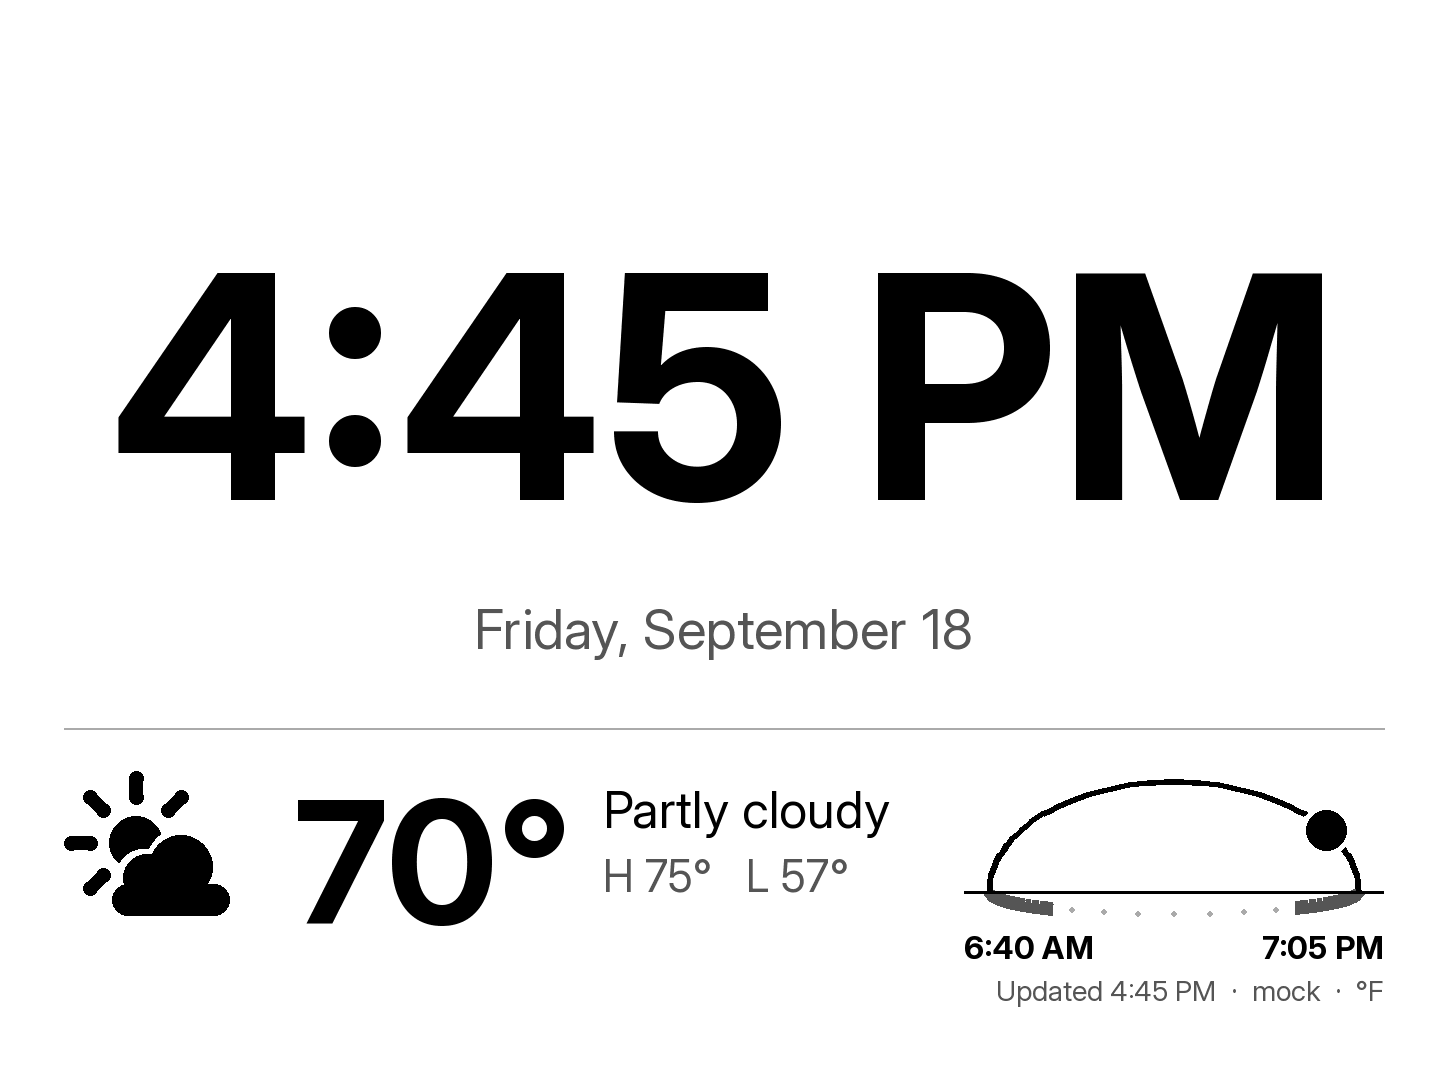
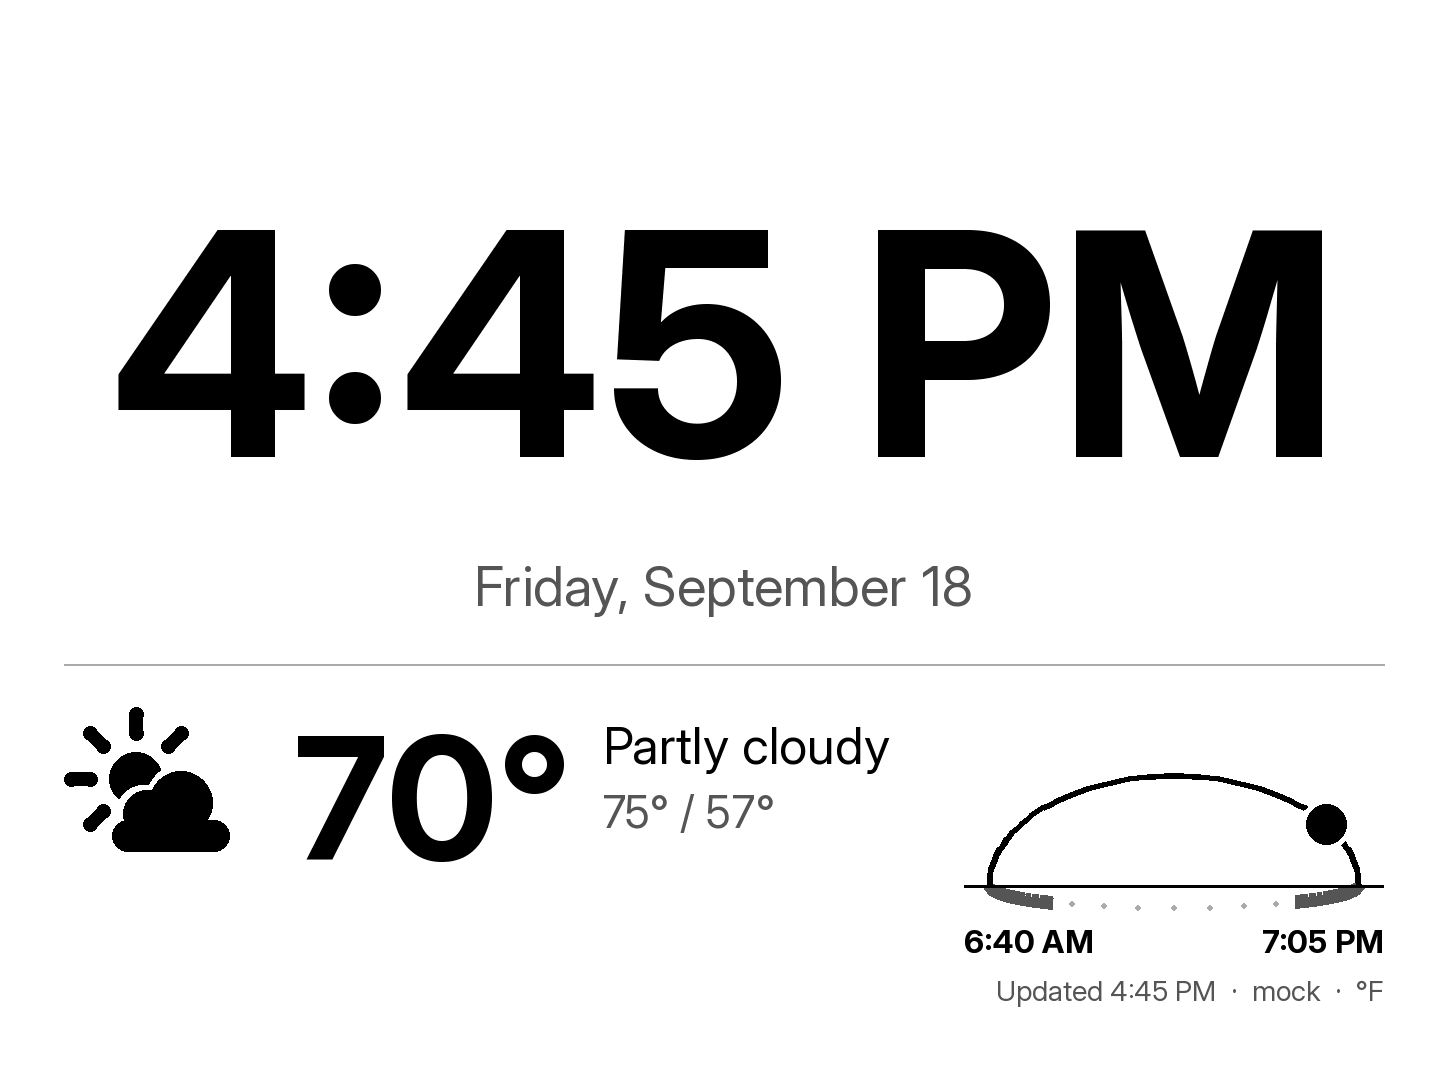
feat(skins): layout pass over weather-station, big-clock, and newspaper
weather-station: the metrics as glyph cells (Canvas.metrics_strip) instead
of the label grid, the duplicated "Feels like" line under the temperature
removed, which also uncrowds the arc in landscape. big-clock: the clock
sits higher, the weather strip and the arc take the space below, the
range reads "75° / 57°". newspaper: the "days ahead" icons grow into the
space left in portrait, and each day's range and condition get their own
lines so the columns share one type size. Goldens and README frames for
the three skins regenerated on purpose.

diff --git a/src/paperwhite_weather/skins/weather_station.py b/src/paperwhite_weather/skins/weather_station.py
@@ -16,7 +16,7 @@ _FORECAST_DAYS = 4
 
 
 class WeatherStationSkin:
-    """Clock, current conditions, a metrics grid, the sun arc, and the forecast."""
+    """Clock, current conditions, the metrics as glyphs, the sun arc, and the forecast."""
 
     name: ClassVar[str] = "weather-station"
 
@@ -48,15 +48,15 @@ class WeatherStationSkin:
             right_x = m + left_w + gutter
             right_w = c.width - m - right_x
             self._current(c, m, y, left_w)
-            gy = self._grid(c, right_x, y, right_w)
-            ay = c.sun_arc((m, self._current_height(c, y), m + left_w, y + c.px(420)))
+            gy = c.metrics_strip((right_x, y + c.px(10), right_x + right_w, y + c.px(200)))
+            ay = c.sun_arc((m, self._current_height(c, y), m + left_w, y + c.px(430)))
             y2 = max(ay, gy) + c.px(30)
             y2 = c.rule(m, y2, w, LIGHT_GRAY, 2) + c.px(16)
             self._forecast(c, m, y2, w)
         else:
             self._current(c, m, y, w)
             y = self._current_height(c, y) + c.px(20)
-            y = self._grid(c, m, y, w) + c.px(30)
+            y = c.metrics_strip((m, y, c.width - m, y + c.px(200))) + c.px(30)
             y = c.sun_arc((m, y, c.width - m, y + c.px(270))) + c.px(30)
             y = c.rule(m, y, w, LIGHT_GRAY, 2) + c.px(16)
             self._forecast(c, m, y, w)
@@ -81,32 +81,9 @@ class WeatherStationSkin:
             anchor="la",
             max_width=width - icon - c.px(30),
         )
-        c.text(
-            (tx, y + c.px(205)),
-            c.feels_like_text(),
-            "regular",
-            40,
-            fill=DARK_GRAY,
-            anchor="la",
-            max_width=width - icon - c.px(30),
-        )
 
     def _current_height(self, c: Canvas, y: int) -> int:
-        return y + c.px(260)
-
-    def _grid(self, c: Canvas, x: int, y: int, width: int) -> int:
-        """Two columns of label/value cells with the optional metrics. Returns the bottom y."""
-        cells = c.metrics()
-        columns = 2
-        cell_w = width / columns
-        cell_h = c.px(96)
-        for k, (label, value) in enumerate(cells):
-            cx = x + cell_w * (k % columns)
-            cy = y + cell_h * (k // columns)
-            c.text((cx, cy), label, "regular", 30, fill=DARK_GRAY, anchor="la")
-            c.text((cx, cy + c.px(34)), value, "bold", 46, anchor="la", max_width=cell_w * 0.95)
-        rows = (len(cells) + columns - 1) // columns
-        return round(y + cell_h * rows)
+        return y + c.px(215)
 
     def _forecast(self, c: Canvas, x: int, y: int, width: int) -> None:
         """Today and the next days as temperature bars on one scale, down to the footer."""

diff --git a/src/paperwhite_weather/skins/newspaper.py b/src/paperwhite_weather/skins/newspaper.py
@@ -49,7 +49,7 @@ class NewspaperSkin:
         # Lead story: text column on the left, the icon on the right.
         current = snapshot.current
         today = snapshot.today
-        icon = c.px(280 if c.landscape else 240)
+        icon = c.px(280 if c.landscape else 200)
         text_w = w - icon - c.px(40)
         lead_top = y
         headline = f"{c.condition_label(current.condition)}, {c.temperature(current.temperature)}"
@@ -91,19 +91,28 @@ class NewspaperSkin:
         days = snapshot.daily[1 : _FORECAST_DAYS + 1]
         if days:
             available = c.height - m - c.px(50) - y  # leave room for the footer
-            small = max(c.px(60), min(c.px(120), available - c.px(110)))
+            small = max(c.px(60), min(c.px(230), available - c.px(130)))
             column = w / len(days)
             for k, day in enumerate(days):
                 x = m + column * k
                 c.text(
-                    (x, y), f"{day.date:%A}", "serif-bold", 34, anchor="la", max_width=column * 0.95
+                    (x, y), f"{day.date:%A}", "serif-bold", 36, anchor="la", max_width=column * 0.95
                 )
-                c.icon(day.condition, (x, y + c.px(46), x + small, y + c.px(46) + small))
+                c.icon(day.condition, (x, y + c.px(50), x + small, y + c.px(50) + small))
+                line_y = y + c.px(50) + small + c.px(14)
                 c.text(
-                    (x, y + c.px(46) + small + c.px(10)),
-                    f"{c.range_text(day)}  {c.condition_label(day.condition)}",
+                    (x, line_y),
+                    c.range_text(day),
                     "serif",
-                    30,
+                    34,
+                    anchor="la",
+                    max_width=column * 0.95,
+                )
+                c.text(
+                    (x, line_y + c.px(46)),
+                    c.condition_label(day.condition),
+                    "serif",
+                    32,
                     anchor="la",
                     max_width=column * 0.95,
                 )

diff --git a/src/paperwhite_weather/skins/big_clock.py b/src/paperwhite_weather/skins/big_clock.py
@@ -29,7 +29,7 @@ class BigClockSkin:
         # Clock, as large as the width allows, vertically in the upper part.
         clock = c.clock()
         clock_size = 520 if c.landscape else 360
-        clock_y = c.height * (0.36 if c.landscape else 0.30)
+        clock_y = c.height * (0.32 if c.landscape else 0.25)
         used = c.text((c.width / 2, clock_y), clock, "bold", clock_size, anchor="mm", max_width=w)
         c.text(
             (c.width / 2, clock_y + used * 0.78),
@@ -43,7 +43,7 @@ class BigClockSkin:
 
         # Weather strip: icon, temperature, condition, range; the sun arc beside it in
         # landscape, under it in portrait.
-        strip_top = c.height * (0.68 if c.landscape else 0.58)
+        strip_top = c.height * (0.62 if c.landscape else 0.50)
         c.rule(m, strip_top, w, LIGHT_GRAY, 2)
         icon_size = c.px(190)
         icon_top = strip_top + c.px(40)
@@ -68,18 +68,19 @@ class BigClockSkin:
         )
         c.text(
             (x2, icon_top + c.px(80)),
-            c.high_low(today),
+            c.range_text(today),
             "regular",
             44,
             fill=DARK_GRAY,
             anchor="la",
             max_width=text_right - x2,
         )
+        arc_bottom = c.height - m - c.px(50)
         if c.landscape:
             arc_left = c.width - m - c.px(420)
-            c.sun_arc((arc_left, strip_top + c.px(20), c.width - m, strip_top + c.px(235)))
+            c.sun_arc((arc_left, strip_top + c.px(10), c.width - m, arc_bottom))
         else:
-            arc_top = icon_top + max(icon_size, temp_size) + c.px(24)
-            c.sun_arc((m, arc_top, c.width - m, arc_top + c.px(210)))
+            arc_top = icon_top + max(icon_size, temp_size) + c.px(40)
+            c.sun_arc((m, arc_top, c.width - m, arc_bottom))
         c.footer()
         return c.image

diff --git a/CHANGELOG.md b/CHANGELOG.md
@@ -35,6 +35,12 @@ Format: [Keep a Changelog](https://keepachangelog.com/en/1.1.0/); versioning: [S
   a rain drop per day, today's temperature as a hollow ring). Shared pieces on the
   canvas: `band_chart()`, `metrics_strip()`, `number()`; glyphs `icons.draw_wind` and
   `icons.draw_thermometer`.
+- Layout pass over three skins: `weather-station` shows the metrics as glyph cells
+  (`Canvas.metrics_strip`) instead of a label grid and no longer repeats "Feels like"
+  under the temperature, which also uncrowds the arc in landscape; `big-clock` sits the
+  clock higher, gives the weather strip and the arc the space below, and writes the
+  range as "75° / 57°"; `newspaper` grows the "days ahead" icons to the space left in
+  portrait and puts each day's range and condition on their own lines.
 - Four more skins, each with portrait and landscape layouts: `newspaper` (serif front
   page), `weather-station` (metrics grid), `big-clock`, and `forecast`. Shared drawing
   helpers in `skins/common.py`; DejaVu Serif bundled alongside DejaVu Sans.

diff --git a/docs/ROADMAP.md b/docs/ROADMAP.md
@@ -135,7 +135,8 @@ The first versions read well; the direction is **fewer words, more pictures**.
       scale (photo of the device), unify stroke weights, and consider distinct glyphs
       for showers versus steady rain and for night (clear night, partly cloudy night)
       once the model knows whether it is night.
-- [ ] Portrait layouts leave empty space at the bottom (`newspaper`, `weather-station`);
+- [x] Portrait layouts leave empty space at the bottom (`newspaper`, `weather-station`)
+      (2026-09-20: the layout pass fills them);
       either grow the forecast or add the sun graphic there.
 
 Done: every skin renders both orientations from the mock provider and is pictured in the
